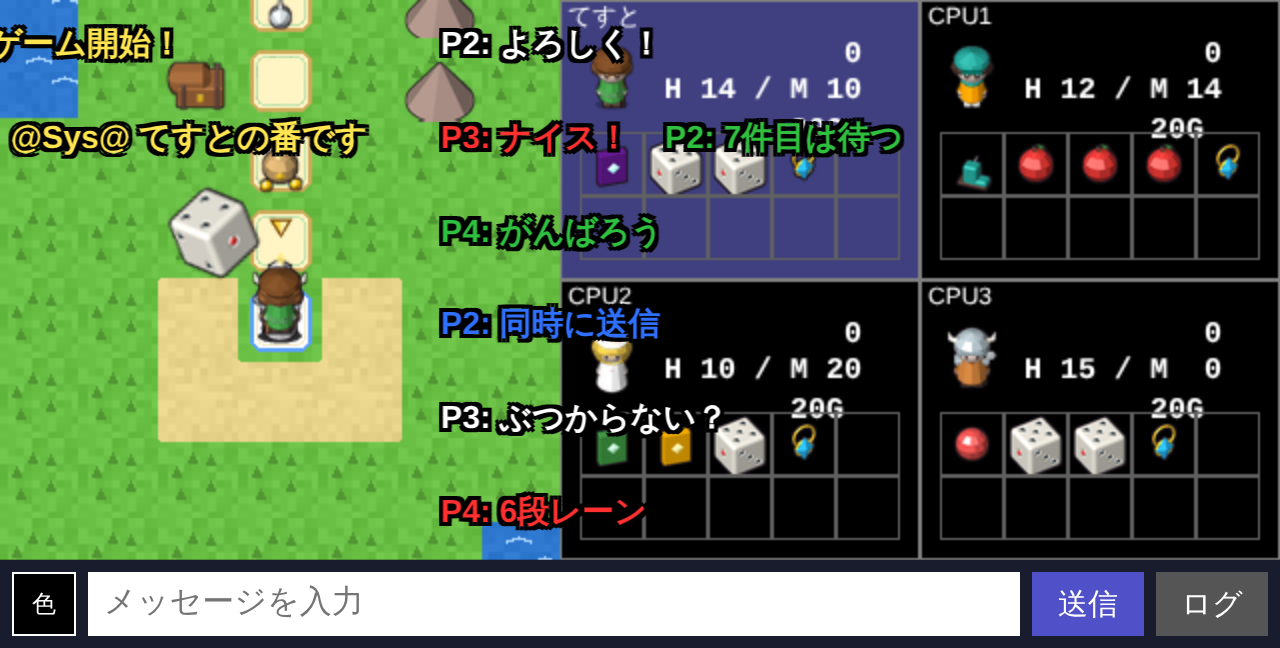
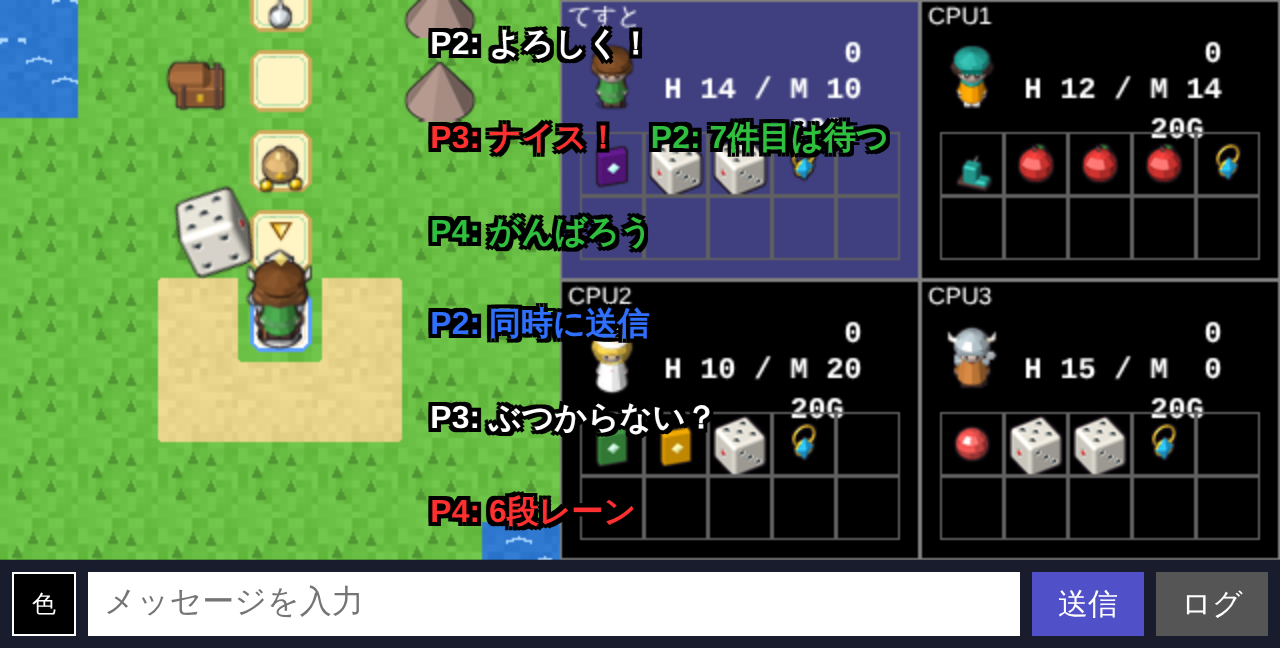
System messages go to log only; turn popup with OK button for the active player, streamed notice for others; enlarge field characters
Claude-Session: https://claude.ai/code/session_01Y8UvxYqorfKZuVGLMtA7nQ

diff --git a/packages/client/src/scenes/Field.ts b/packages/client/src/scenes/Field.ts
@@ -4,7 +4,7 @@ import type { Ask, GameEvent, PublicPlayer, PublicView } from '@gyusuji/shared';
 import { Tracker, unlock } from '../achievements.js';
 import { DIR_ROW, HEROES, NPC_OF, OBJ_OF, classicTile, iconStyle, v2Tile } from '../assets.js';
 import { bgm, se } from '../audio.js';
-import { buildChatBar, closeLog, say, setSender, system } from '../chat.js';
+import { buildChatBar, closeLog, notify, say, setSender, system } from '../chat.js';
 import { onLayout } from '../layout.js';
 import { net, type Host, type OnlineHost } from '../net.js';
 import { update } from '../store.js';
@@ -17,7 +17,8 @@ import { fieldCam, frames, tween, wait } from './fieldcam.js';
 const T = C.TILE;
 /** キャラの描画位置はマス中心から上へ10px（SQU_CHR_OFFS_Y） */
 const CHR_OFFS_Y = -10;
-const HERO_SCALE = 0.75;
+/** キャラは少し寄りで表示（素材64px → 約58px） */
+const HERO_SCALE = 0.9;
 type Batch = { events: GameEvent[]; view: PublicView };
 const ARROWS = ['up', 'down', 'left', 'right'];
 
@@ -153,7 +154,7 @@ export class Field extends Phaser.Scene {
       else if (OBJ_OF[o.type]) s = this.add.sprite(cx, cy, OBJ_OF[o.type]).setScale(0.8);
       else if (ENEMIES[o.type]) {
         const e = ENEMIES[o.type];
-        s = this.add.sprite(cx, cy + CHR_OFFS_Y, e.sprite).setScale(e.boss ? 1 : HERO_SCALE).play(`${e.sprite}_idle`);
+        s = this.add.sprite(cx, cy + CHR_OFFS_Y, e.sprite).setScale(e.boss ? 1.15 : HERO_SCALE).play(`${e.sprite}_idle`);
         if (o.type === 'lastboss_king') s.setTint(0xff9090);
       }
       s?.setDepth(this.depthOf(o.y, 2));
@@ -280,12 +281,14 @@ export class Field extends Phaser.Scene {
         { label: 'アイテム', on: () => this.itemList(p, ask.items, (slot) => send({ type: 'useItem', slot })) },
       ], 'left:16px;top:200px'));
     } else {
-      this.addWin(menuWin(ask.options.map((o, i) => ({
+      const win = this.addWin(menuWin(ask.options.map((o, i) => ({
         label: o.label, disabled: o.disabled,
         icon: o.value && ITEMS[o.value] ? iconStyle(o.value) : undefined,
         desc: o.value && ITEMS[o.value] ? ITEMS[o.value].desc : undefined,
         on: () => send({ type: 'select', index: i }),
       })), 'left:16px;top:16px;max-height:248px;overflow-y:auto', (it) => this.showDesc(it)));
+      // 問いかけ文は対象プレイヤーのウィンドウ先頭に表示（流さない）
+      win.prepend(h('div', { style: 'padding:0 11px;line-height:22px;color:#ffe650;white-space:normal;max-width:240px' }, ask.title));
     }
   }
 
@@ -400,9 +403,16 @@ export class Field extends Phaser.Scene {
         this.restack();
         this.status.draw(this.view, e.seat);
         this.lookAt(e.seat);
-        if (this.host.mySeats.has(e.seat)) se('turn');
-        system(`${this.name(e.seat)}の番です`);
-        await wait(this, frames(6));
+        if (this.host.mySeats.has(e.seat)) {
+          // 該当プレイヤーにはポップアップ。〇を押して閉じる
+          system(`${this.name(e.seat)}の番です`);
+          se('turn');
+          await this.turnPopup(`${this.name(e.seat)}の番です`);
+        } else {
+          // 対象外のプレイヤーにはコメントを流して通知
+          notify(`${this.name(e.seat)}の番です`);
+          await wait(this, frames(6));
+        }
         return;
       case 'skip':
         se('piyo');
@@ -596,6 +606,23 @@ export class Field extends Phaser.Scene {
         this.result(e.winner);
         return;
     }
+  }
+
+  /** 手番ポップアップ：〇を押すまで待つ */
+  private turnPopup(text: string): Promise<void> {
+    return new Promise((resolve) => {
+      const close = () => {
+        el.remove();
+        resolve();
+      };
+      const el = centerWin(140, 140,
+        h('div', { style: 'font-size:16px;margin-bottom:6px;text-align:center' }, text),
+        h('div', { style: 'text-align:center' }, h('button', {
+          class: 'okbtn', onclick: () => { se('select'); close(); },
+        }, '〇')));
+      el.classList.add('turnpop');
+      fieldUI().append(el);
+    });
   }
 
   /** 結果（UI_LAYOUT §5）：閉じるとゲーム終了 */

diff --git a/packages/client/e2e/layout.spec.ts b/packages/client/e2e/layout.spec.ts
@@ -1,4 +1,19 @@
-import { expect, test } from '@playwright/test';
+import { expect, test, type Page } from '@playwright/test';
+
+/** 自分の「移動」メニューが出るまで進める（手番ポップアップ・戦闘・選択肢を処理） */
+async function untilMyAction(page: Page) {
+  for (let i = 0; i < 120; i++) {
+    if (await page.locator('.askwin .it', { hasText: '移動' }).isVisible()) return;
+    const ok = page.locator('.okbtn');
+    const atk = page.locator('.askwin .it', { hasText: 'たたかう' });
+    const opt = page.locator('.askwin .it:not(.off)').last();
+    if (await ok.isVisible()) await ok.click().catch(() => {});
+    else if (await atk.isVisible()) await atk.click().catch(() => {});
+    else if (await opt.isVisible()) await opt.click().catch(() => {});
+    await page.waitForTimeout(400);
+  }
+  throw new Error('自分の手番になりません');
+}
 
 /** UI_LAYOUT §12 の 1〜2：横(640×324)・縦(360×684) のスクリーンショット */
 const SIZES = { land: { width: 640, height: 324 }, port: { width: 360, height: 684 } } as const;
@@ -20,6 +35,10 @@ for (const orient of ['land', 'port'] as const) {
       await page.locator('.it', { hasText: '召喚士' }).click();
       await page.screenshot({ path: `e2e-out/${orient}_0wait.png` });
       await page.getByText('ゲーム開始').click();
+      await expect(page.locator('.okbtn')).toBeVisible({ timeout: 15000 });
+      await page.waitForTimeout(300);
+      await page.screenshot({ path: `e2e-out/${orient}_1turnpop.png` });
+      await page.locator('.okbtn').click();
       await expect(page.getByText('移動')).toBeVisible({ timeout: 15000 });
       await page.waitForTimeout(300);
       await page.screenshot({ path: `e2e-out/${orient}_1field.png` });
@@ -69,13 +88,7 @@ for (const orient of ['land', 'port'] as const) {
       await page.locator('.askwin .it', { hasText: '移動' }).click();
       await page.waitForTimeout(1200);
       await page.screenshot({ path: `e2e-out/${orient}_4dice.png` });
-      // イベント（選択肢が出れば選ぶ）までCPUの手番を進める
-      for (let i = 0; i < 60; i++) {
-        const opt = page.locator('.askwin .it:not(.off)').last();
-        if (await page.locator('.askwin .it', { hasText: '移動' }).isVisible()) break;
-        if (await opt.isVisible()) await opt.click();
-        await page.waitForTimeout(500);
-      }
+      await untilMyAction(page);
       // イベント：宝箱の1マス手前に置き、いちころで1マス進む
       await page.evaluate(() => {
         const f = (window as any).game.scene.getScene('Field');
@@ -104,12 +117,7 @@ for (const orient of ['land', 'port'] as const) {
       await page.waitForTimeout(400);
       await page.screenshot({ path: `e2e-out/${orient}_5event.png` });
       await page.locator('.askwin .it', { hasText: '開ける' }).click();
-      for (let i = 0; i < 60; i++) {
-        if (await page.locator('.askwin .it', { hasText: '移動' }).isVisible()) break;
-        const opt = page.locator('.askwin .it:not(.off)').last();
-        if (await opt.isVisible()) await opt.click();
-        await page.waitForTimeout(500);
-      }
+      await untilMyAction(page);
       // 戦闘：中ボス手前のマスへ置いてから移動
       await page.evaluate(() => {
         const f = (window as any).game.scene.getScene('Field');

diff --git a/packages/client/src/scenes/Menu.ts b/packages/client/src/scenes/Menu.ts
@@ -91,8 +91,7 @@ export class Menu extends Phaser.Scene {
             await net.joinSlot(r.slot);
             this.chars();
           } catch (e) {
-            say({ from: '', text: (e as Error).message, color: '#ffe650', system: true });
-            this.rooms();
+            this.show(h('div', {}, (e as Error).message), this.list([{ label: 'もどる', on: () => this.rooms() }]));
           }
         },
       };
@@ -182,7 +181,7 @@ export class Menu extends Phaser.Scene {
 
   private options() {
     const s = store();
-    const streamLabel = { all: '表示する', system: 'システムのみ', none: '表示しない' }[s.stream];
+    const streamLabel = { all: '表示する', system: '通知のみ', none: '表示しない' }[s.stream];
     this.show(h('div', {}, '設定'), this.list([
       { label: `演出速度：${s.speed}×`, on: () => { update((x) => (x.speed = ((x.speed % 3) + 1) as 1 | 2 | 3)); this.options(); } },
       { label: `流れるメッセージ：${streamLabel}`, on: () => { update((x) => (x.stream = x.stream === 'all' ? 'system' : x.stream === 'system' ? 'none' : 'all')); this.options(); } },

diff --git a/packages/client/src/chat.ts b/packages/client/src/chat.ts
@@ -21,17 +21,25 @@ export function setSender(f: ((text: string, color: number) => void) | null): vo
   sender = f;
 }
 
-export function say(l: Line): void {
+/** ログに残し、flow=true なら画面に流す */
+export function say(l: Line, flow = !l.system): void {
   lines.push(l);
   if (lines.length > LOG_MAX) lines.shift();
   logWin?.append(l);
+  if (!flow) return;
   const mode = store().stream;
   if (mode === 'none' || (mode === 'system' && !l.system)) return;
   stream.push(l);
 }
 
+/** システムメッセージ：画面には流さず、ログにだけ残す */
 export function system(text: string): void {
-  say({ from: SYS, text, color: SYSTEM_COLOR, system: true });
+  say({ from: SYS, text, color: SYSTEM_COLOR, system: true }, false);
+}
+
+/** 対象外のプレイヤーへの通知（手番など）：ログに残して画面に流す */
+export function notify(text: string): void {
+  say({ from: SYS, text, color: SYSTEM_COLOR, system: true }, true);
 }
 
 const fmt = (l: Line) => (l.system ? `${SYS} ${l.text}` : `${l.from}: ${l.text}`);

diff --git a/packages/client/src/style.css b/packages/client/src/style.css
@@ -46,3 +46,5 @@ body { font-family: 'Hiragino Kaku Gothic ProN', 'Noto Sans JP', 'Meiryo', sans-
 .logwin .x { width: 32px; height: 24px; background: #555; color: #fff; border: 0; font-size: 16px; }
 .logwin .body { flex: 1; overflow-y: auto; padding: 0 12px; font-size: 13px; line-height: 22px; touch-action: pan-y; -webkit-overflow-scrolling: touch; }
 .logwin .ft { padding: 4px 12px; color: #9aa; font-size: 12px; }
+.okbtn { width: 48px; height: 32px; background: var(--win); color: #fff; border: 1px solid #fff; font-size: 18px; cursor: pointer; }
+.okbtn:hover { background: #4060a0; }

diff --git a/docs/UI_CHECK.md b/docs/UI_CHECK.md
@@ -41,13 +41,21 @@
 | D7 | 会話ログでは「黒のまま」とあるが、ログ背景が #203040 のため黒文字は読めない。図では白表示 | ログでも黒は白で表示 | 白表示でよいか |
 | D8 | ダイスの起点 (60,60)/(40,70)/(35,80) の意味 | n個目のダイスをその起点から転がし、(110+40n, 120+6n) 付近で止めている | 止まる位置・個数ごとの起点の割り当ての原作値 |
 | D9 | アイテム一覧は32pxアイコン＋名前の縦リストだが、10個だと高さ320px超でフィールド(280)に入らない | 最大高さ248pxで縦スクロール | 原作の行高・1画面の表示件数 |
-| D10 | キャラの表示サイズ（同梱素材64px）が未指定 | 0.75倍（48px）、マス中心から上へ10px、足元に影 | 原作のキャラ表示サイズ |
+| D10 | キャラの表示サイズ（同梱素材64px）が未指定 | 0.9倍（約58px）、マス中心から上へ10px、足元に影 | さらに調整が必要なら倍率を指定 |
 | D11 | 部屋選択の後にキャラ選択があるため、入室直後はキャラ未選択。「4人揃ったら開始」は4人ともキャラ選択を終えた時点で開始にしている | 左記 | この解釈でよいか |
 | D12 | 一人で遊ぶ：§8の流れに部屋選択が無いため、キャラ選択 → 待機（CPUの追加・外す、ハウスルール）→ 開始 | 左記 | 原作の一人用の流れ（CPU人数の決め方） |
-| D13 | 流れるメッセージは「名前: 本文」とあるが、システムは図に合わせて「@Sys@ 本文」 | 図に合わせた | ― |
+| D13 | 流れるメッセージは「名前: 本文」とあるが、システム（手番通知）は図に合わせて「@Sys@ 本文」 | 図に合わせた | ― |
 | D14 | 戦闘のエンカウント演出（取り込み・60f 拡大1.2→3.0・回転6°/f・加算合成）は実装済みだが、静止画では確認できない | ― | 動画での確認が必要なら録画する |
 
-## 3. 今回の範囲で未対応（§12-4以降）
+## 3. 追加指示（反映済み）
+
+- システムメッセージ（イベント結果・問いかけ等）は画面に流さず、会話ログにのみ残す。流れるのはプレイヤーのチャットと、下記の手番通知のみ。
+- 手番：該当プレイヤーにはフィールド中央 (140,140) にポップアップ「○○の番です」と〔〇〕を表示し、押すまで次へ進まない（`*_1turnpop.png`）。対象外のプレイヤーには「@Sys@ ○○の番です」を流して通知する。
+- 問いかけ文（「宝箱がある。開けますか？」等）は流さない代わりに、対象プレイヤーの選択肢ウィンドウ先頭に黄色で表示（`*_5event.png`）。
+- 設定の「流れるメッセージ：システムのみ」は「通知のみ」に改称。
+- マップ上のキャラ・NPC・敵の表示を 0.75倍 → 0.9倍（約58px）に拡大（中ボス等は1.15倍）。表示マス数 7×7 は変更なし。
+
+## 4. 今回の範囲で未対応（§12-4以降）
 
 - Cloudflare Pages への公開（`.github/workflows/web.yml` は追加済み、Secrets 未設定）、PWA（manifest・Service Worker）
 - iPhone Safari / Android Web / APK の3環境クロスプレイ確認
